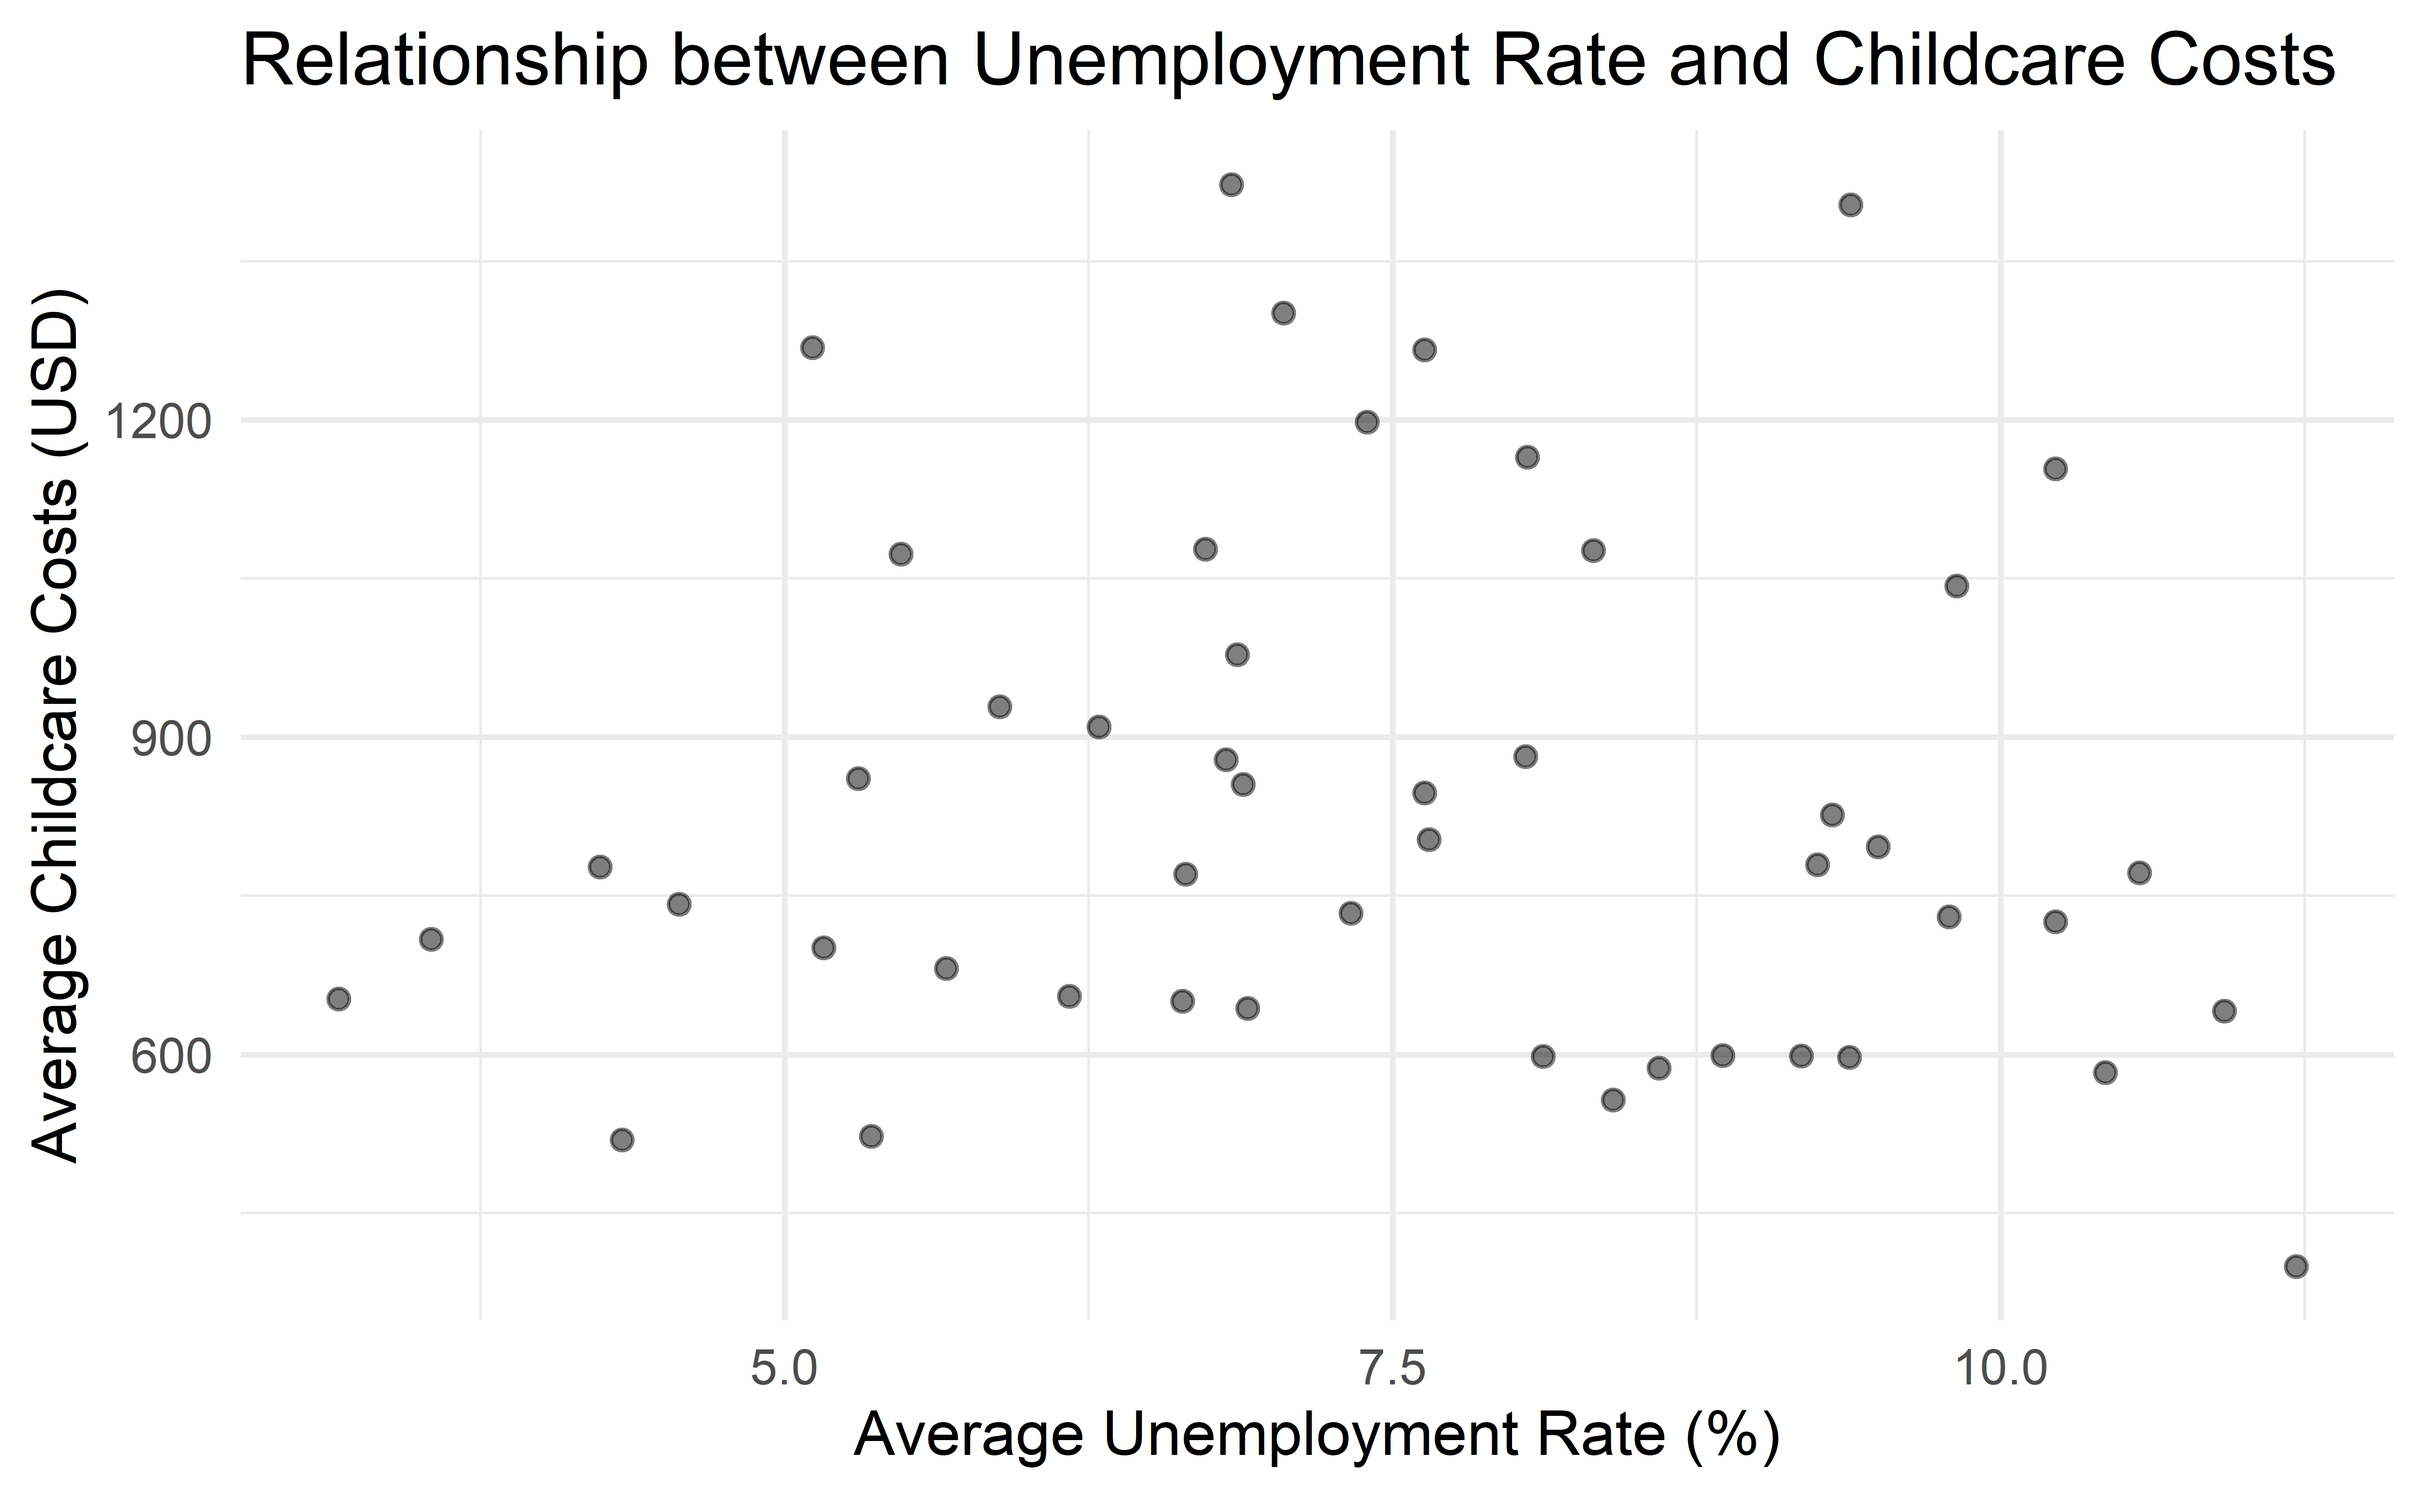
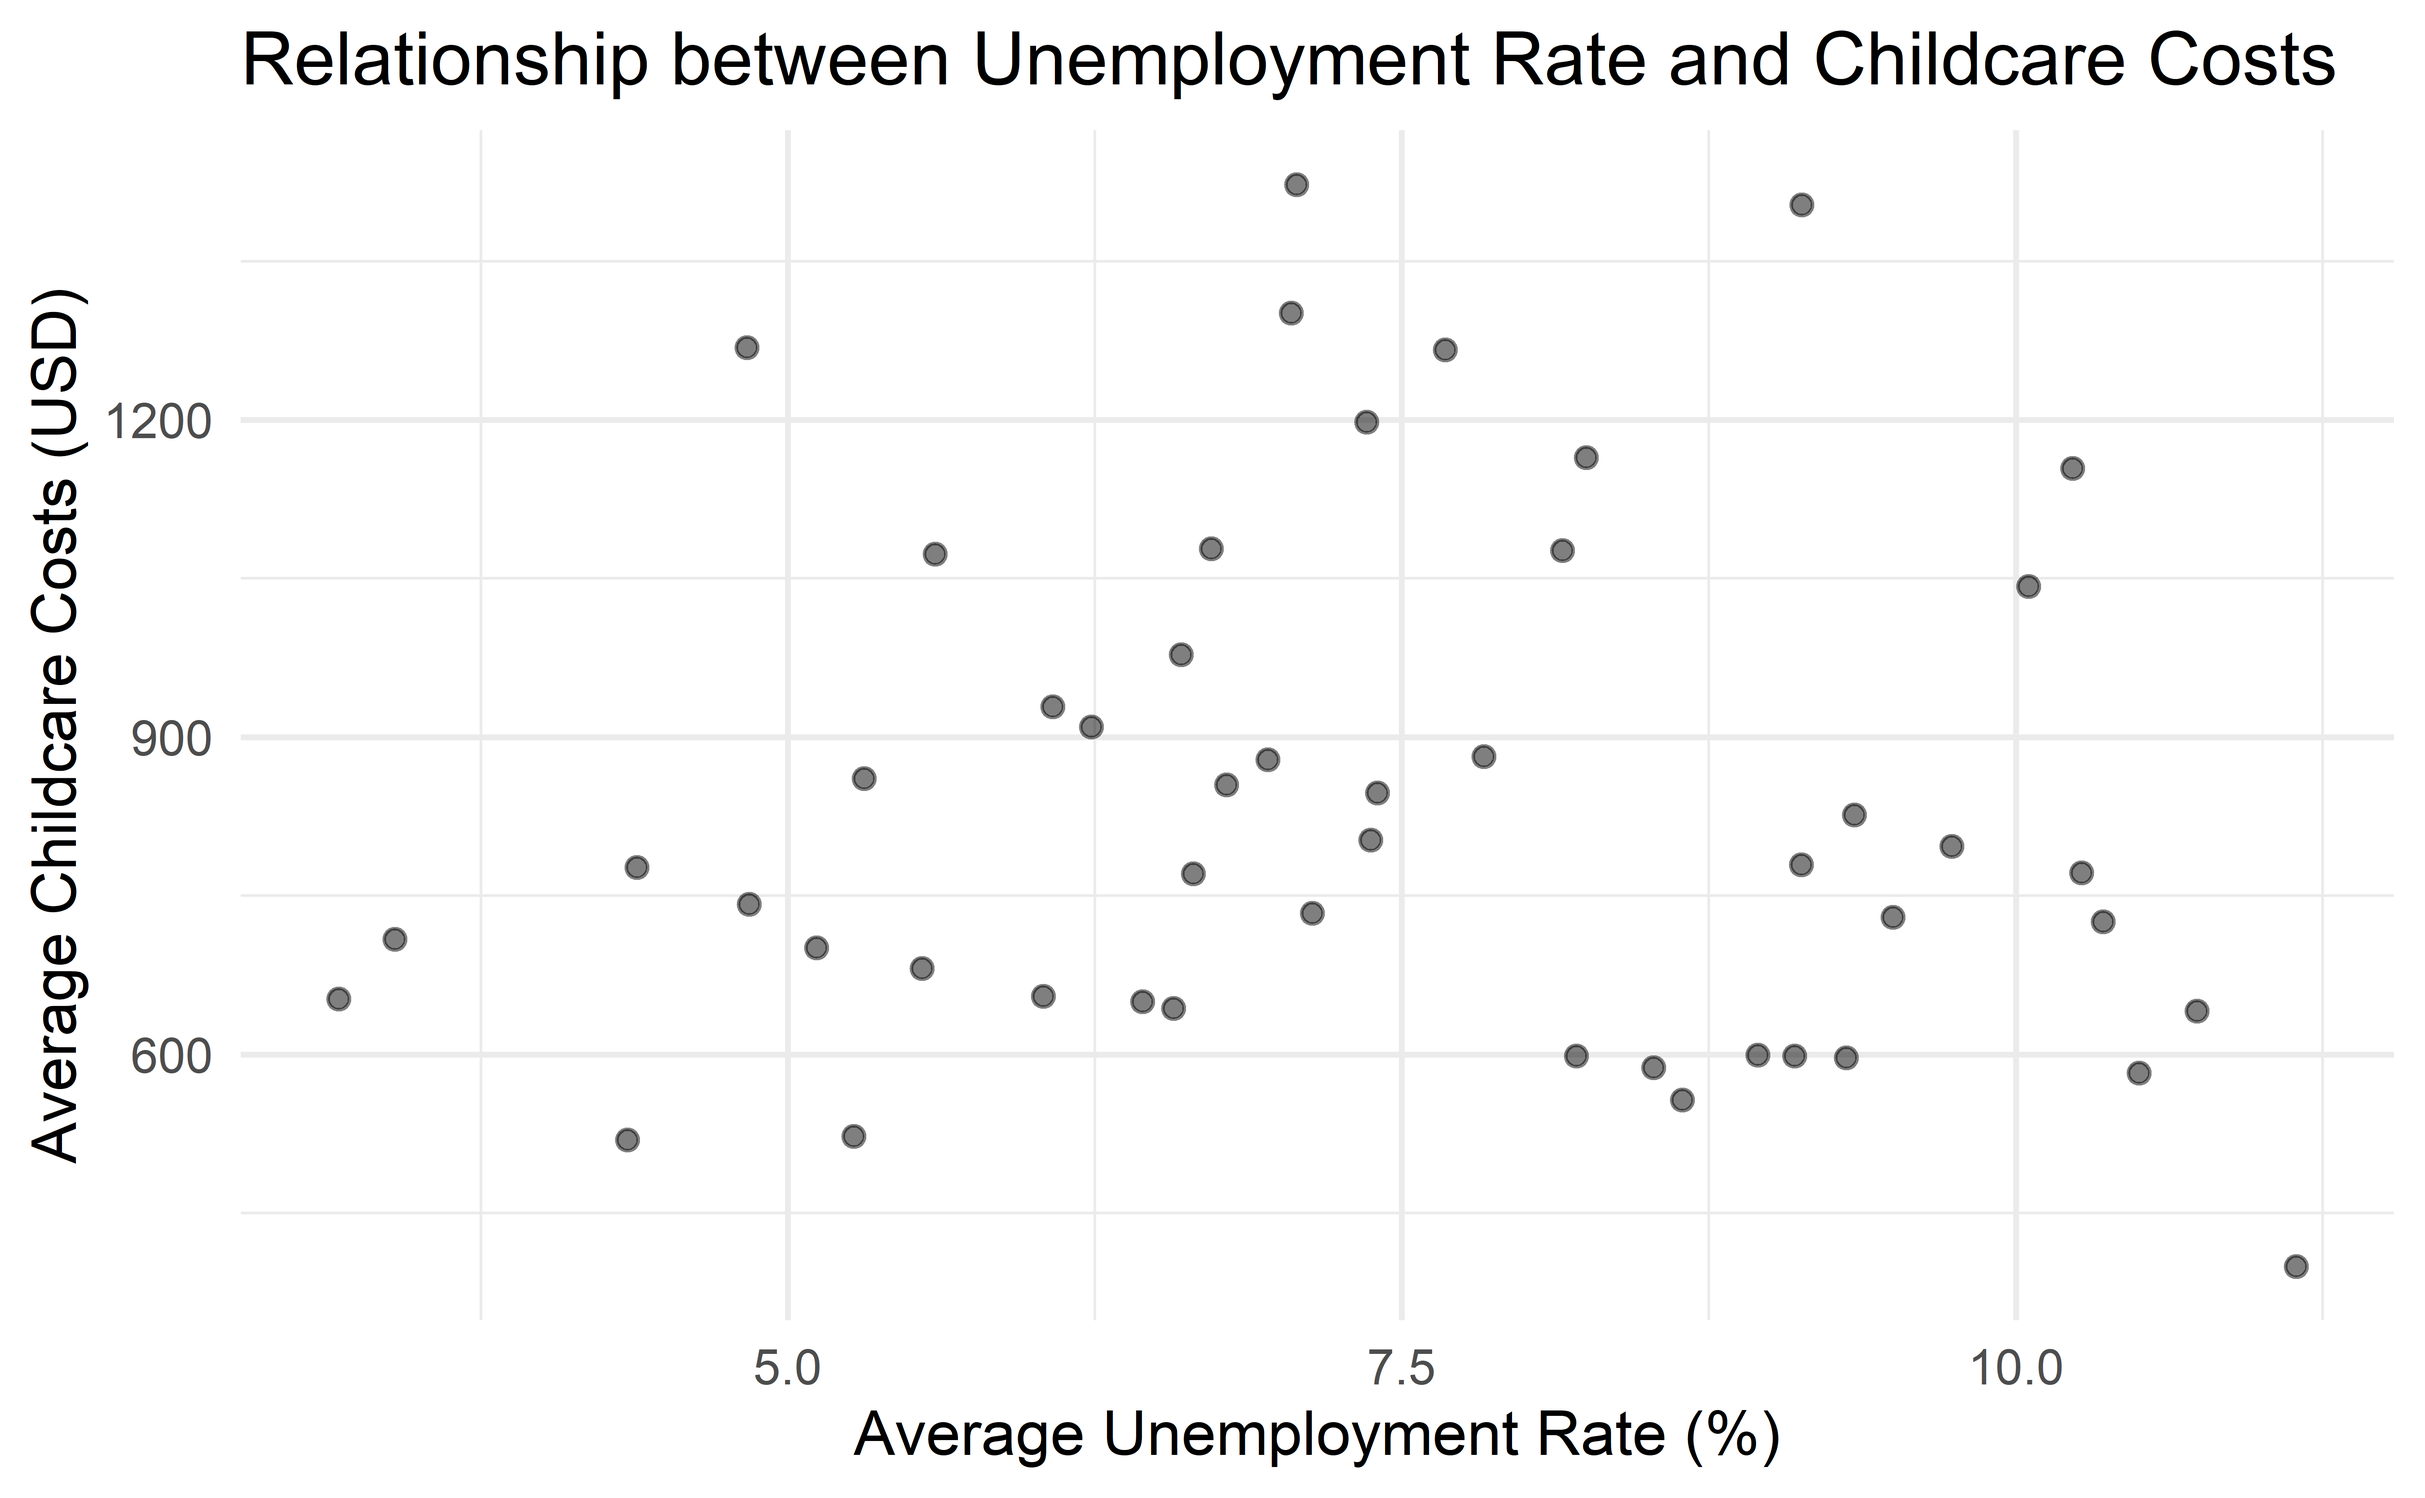
Built site for gh-pages

diff --git a/presentation.html b/presentation.html
@@ -524,9 +524,9 @@ Narasimha ,Devendran ,Mohammad ,Shreemithra , Amaan ,Gawtham –Insight Squad
 </section>
 <section id="thank-you" class="slide level2">
 <h2>Thank You</h2>
-<p>!<a href="images/Thank_img.webp"></a></p>
 
-<div class="quarto-auto-generated-content">
+
+<img data-src="presentation_files/figure-revealjs/unnamed-chunk-13-1.png" width="1800" class="r-stretch"><div class="quarto-auto-generated-content">
 <div class="footer footer-default">
 
 </div>
